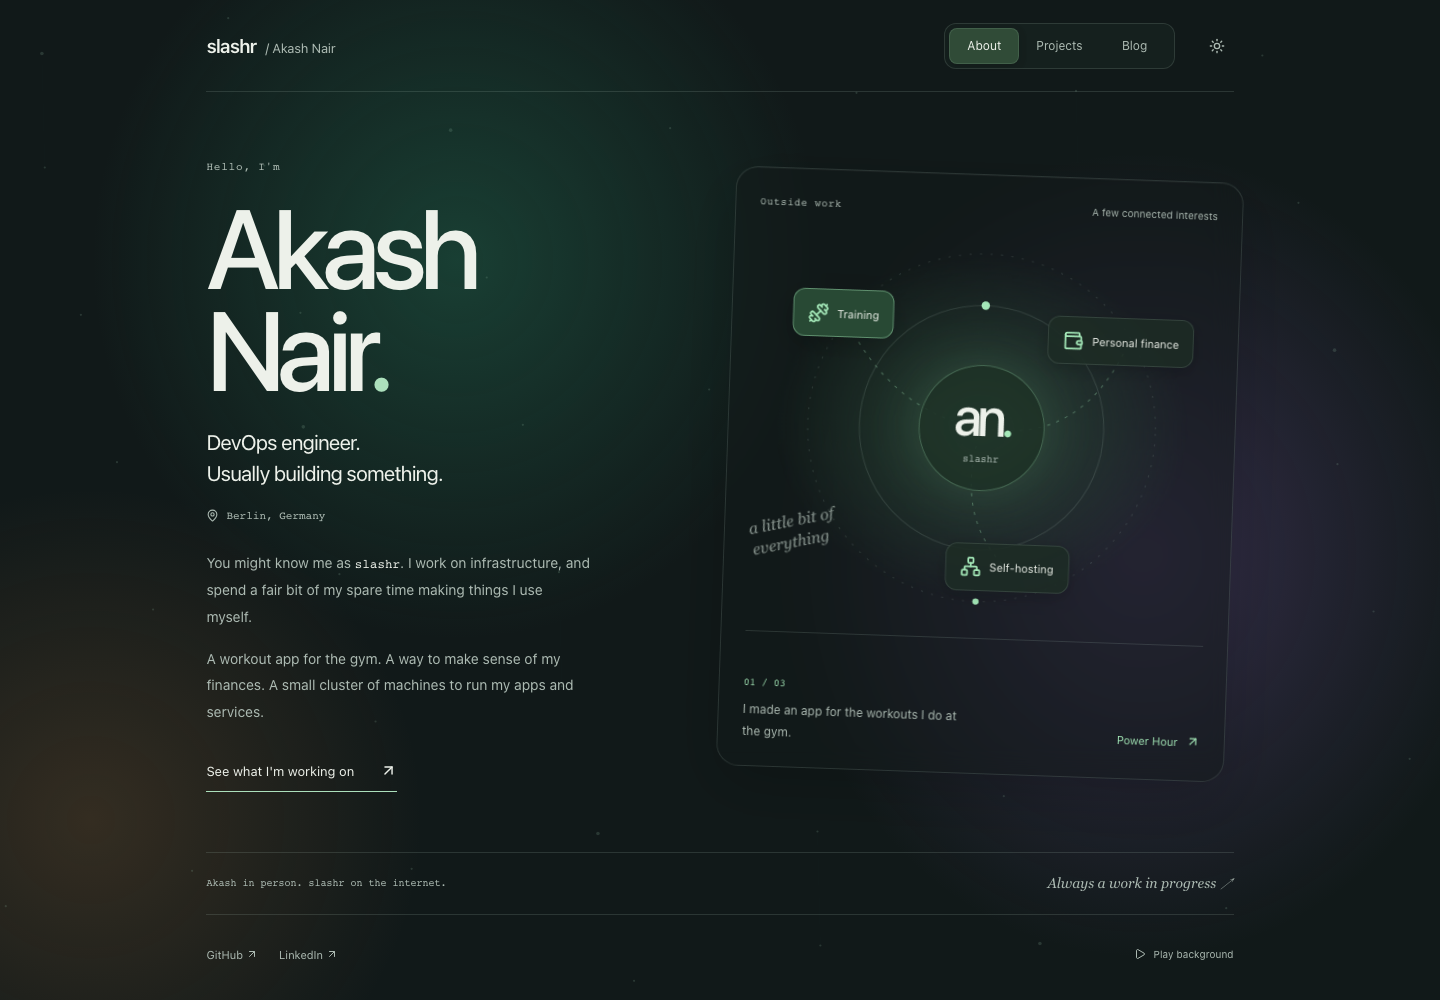
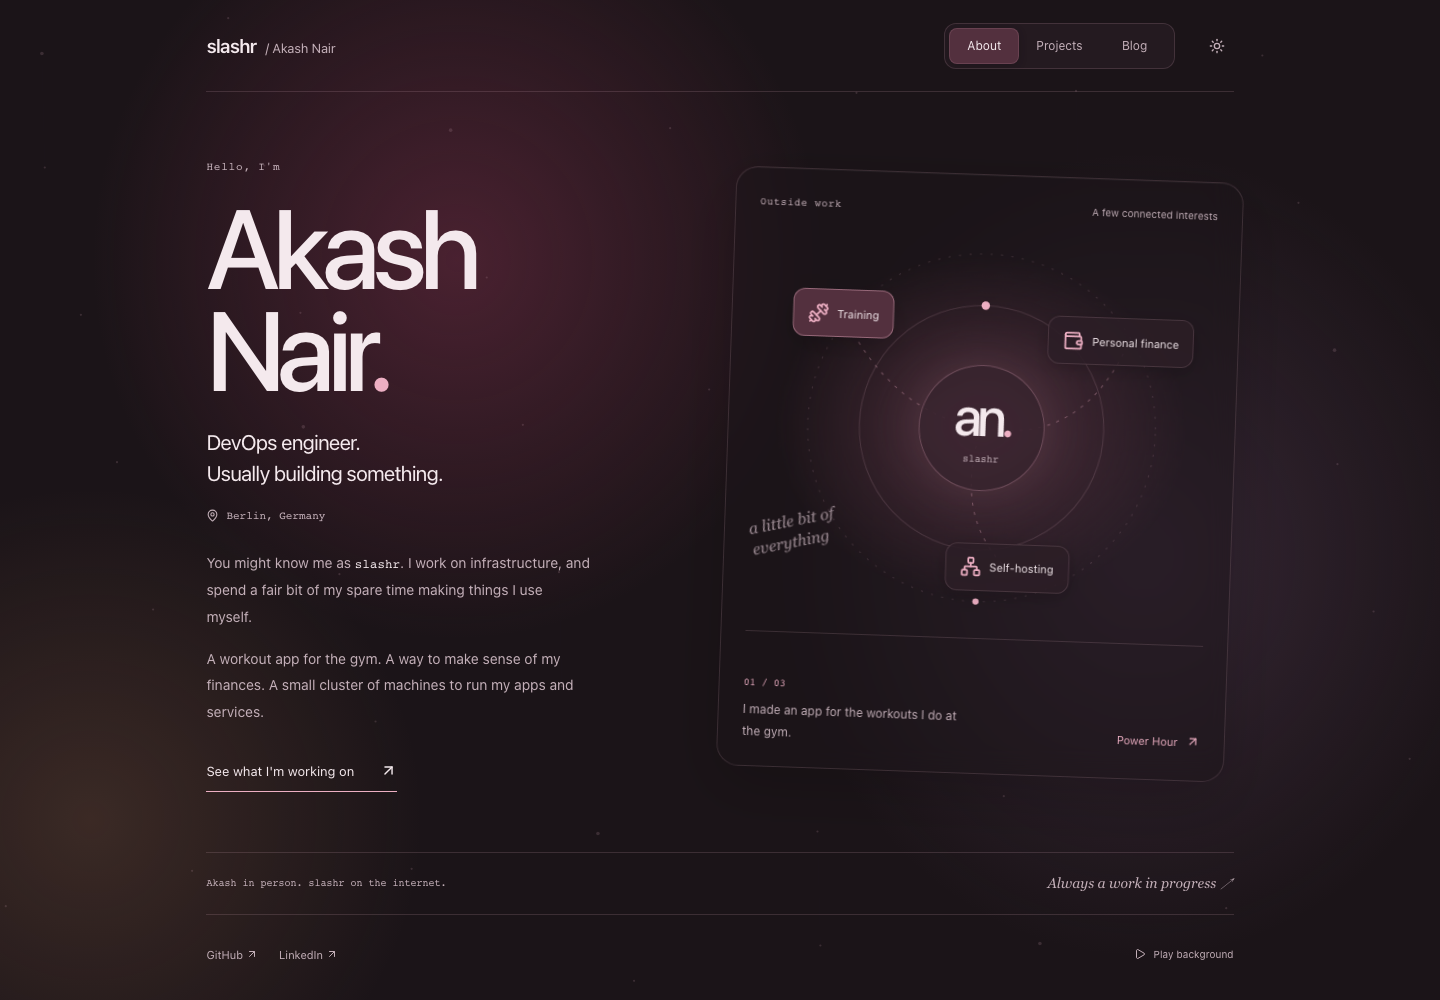
Use burgundy accents and warm neutrals throughout the site

diff --git a/app/globals.css b/app/globals.css
@@ -1,17 +1,19 @@
 :root {
   color-scheme: light dark;
-  --base: light-dark(#f4f6f4, #111919);
-  --ink: light-dark(#24332f, #edf1ea);
-  --muted: light-dark(#53665f, #adbbb3);
-  --line: light-dark(#69847736, #a8c0b62c);
-  --surface: light-dark(#ffffff8c, #1b2923b3);
-  --solid: light-dark(#fbfcf9, #1d2b24);
-  --accent: light-dark(#246748, #ace0bc);
-  --accent-soft: light-dark(#dcecdf, #304b37);
-  --shadow: light-dark(#294d3310, #0000002b);
-  --wash-green: light-dark(#84d4b77d, #24755968);
-  --wash-violet: light-dark(#c0a4ef70, #7553a257);
-  --wash-orange: light-dark(#f2c98c66, #a36b3b3d);
+  --base: light-dark(#f8f4f5, #1b1418);
+  --ink: light-dark(#38272e, #f4e9ed);
+  --muted: light-dark(#745f68, #c4b0b9);
+  --line: light-dark(#8a5b6c33, #ca9eaf30);
+  --surface: light-dark(#ffffff8c, #30212ab3);
+  --solid: light-dark(#fffafb, #2b1e25);
+  --burgundy: light-dark(#7e2341, #edafc3);
+  --burgundy-soft: light-dark(#efdce3, #53303e);
+  --accent: var(--burgundy);
+  --accent-soft: var(--burgundy-soft);
+  --shadow: light-dark(#631d3810, #0000002b);
+  --wash-burgundy: light-dark(#bc5e7d52, #85324f70);
+  --wash-violet: light-dark(#c5addd55, #7350744d);
+  --wash-orange: light-dark(#e8bd9b50, #a06e4e3d);
 }
 html[data-theme="light"] {
   color-scheme: light;
@@ -199,7 +201,7 @@ h1 {
   height: 800px;
   top: -140px;
   left: 5%;
-  background: radial-gradient(ellipse, var(--wash-green), transparent 67%);
+  background: radial-gradient(ellipse, var(--wash-burgundy), transparent 67%);
   will-change: transform;
   animation: wander 21s ease-in-out infinite alternate;
 }
@@ -226,16 +228,16 @@ h1 {
   width: 100%;
   height: 100%;
   inset: 0;
-  color: light-dark(#53816c, #92b9a3);
+  color: light-dark(#9a697b, #c49aa9);
   opacity: 0.55;
 }
 html[data-motion="off"] .light-wash {
   animation-play-state: paused;
 }
 [data-project="power-hour"] {
-  --accent: light-dark(#237a50, #a4e8b8);
-  --accent-soft: light-dark(#d9efdf, #284934);
-  --project-glow: light-dark(#8fdbb03b, #5da87522);
+  --accent: var(--burgundy);
+  --accent-soft: var(--burgundy-soft);
+  --project-glow: light-dark(#bc5e7d30, #b45b7c26);
 }
 [data-project="inab"] {
   --accent: light-dark(#7854ad, #d0b8f7);
@@ -563,8 +565,8 @@ html[data-motion="off"] .light-wash {
   position: absolute;
   right: 10px;
   bottom: 10px;
-  background: #101b16d9;
-  color: #f4f7ef;
+  background: #25151ed9;
+  color: #fff4f8;
   padding: 7px 9px;
   border: 1px solid #ffffff2e;
   border-radius: 7px;
@@ -606,7 +608,7 @@ html[data-motion="off"] .light-wash {
   overflow: auto;
 }
 .screenshot-dialog::backdrop {
-  background: #07110ecc;
+  background: #170b12cc;
   backdrop-filter: blur(12px);
 }
 .lightbox-header {
@@ -1380,8 +1382,8 @@ html[data-motion="off"] :is(.about-page, .projects-page, .blog-page) {
   transform: translate(3px, -3px);
 }
 .personal-map {
-  --map-accent: light-dark(#287750, #a4e8b8);
-  --map-soft: light-dark(#d9efdf, #284934);
+  --map-accent: var(--burgundy);
+  --map-soft: var(--burgundy-soft);
   position: relative;
   min-width: 0;
   border: 1px solid var(--line);

diff --git a/public/archive.css b/public/archive.css
@@ -1,10 +1,11 @@
 :root {
   color-scheme: light dark;
-  --paper: light-dark(#f5f7f5, #111b19);
-  --ink: light-dark(#21362e, #e8f0e8);
-  --soft: light-dark(#536c5f, #a4b6a8);
-  --line: light-dark(#d6e0d6, #344b3d);
-  --accent: light-dark(#276449, #a6d1b1);
+  --paper: light-dark(#f8f4f5, #1b1418);
+  --ink: light-dark(#38272e, #f4e9ed);
+  --soft: light-dark(#745f68, #c4b0b9);
+  --line: light-dark(#e4d7de, #4a333f);
+  --accent: light-dark(#7e2341, #edafc3);
+  --accent-soft: light-dark(#efdce3, #53303e);
 }
 * {
   box-sizing: border-box;
@@ -62,7 +63,7 @@ a {
 }
 .archive-nav nav a[aria-current="page"] {
   color: var(--ink);
-  background: light-dark(#dcecdf, #304b37);
+  background: var(--accent-soft);
   box-shadow: inset 0 0 0 1px var(--line);
 }
 main {
@@ -134,7 +135,7 @@ h4 {
 .article-body pre {
   overflow-x: auto;
   padding: 20px;
-  background: light-dark(#e7eee6, #1d3026);
+  background: light-dark(#f0e5ea, #382530);
   border-radius: 10px;
   font-size: 13px;
   line-height: 1.7;

diff --git a/components/ambient-background.tsx b/components/ambient-background.tsx
@@ -87,7 +87,7 @@ export function AmbientBackground() {
   }, [motion, dark]);
   return (
     <div className="ambient" aria-hidden="true">
-      <div className="light-wash wash-mint" />
+      <div className="light-wash wash-burgundy" />
       <div className="light-wash wash-lilac" />
       <div className="light-wash wash-peach" />
       <canvas className="ambient-network" ref={canvas} />
